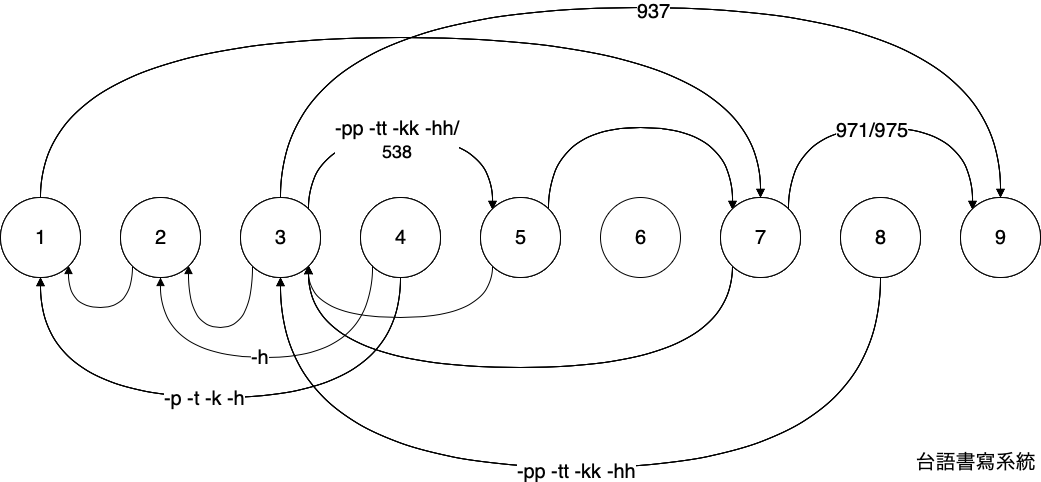
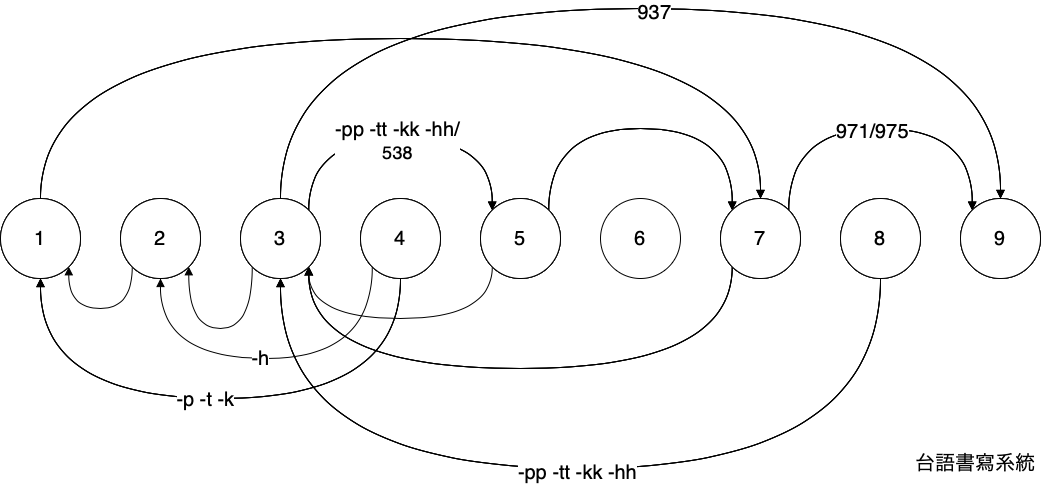
edit tone-sandhi.png. change from '-p, -t, -k' -h to '-p, -t, -k'

diff --git a/phrasal-verb.md b/phrasal-verb.md
@@ -409,7 +409,7 @@ chit-leh. chihhweh. chih-eh.
 
 | 漢字 | 書寫系統 |
 | :--- | :--- |
-| 食食 | chiahhw chiahh kih |
+| 食食 | chiahhwchiahh kih |
 | 酸酸 | sngzsng kih |
 | 縛縛 | vakkwvakk kih |
 
@@ -423,6 +423,6 @@ chit-leh. chihhweh. chih-eh.
 
 | 漢字 | 書寫系統 |
 | :--- | :--- |
-| 摃摃 | qongy qongw poah |
+| 摃摃 | qongyqongw poah |
 
 ## 連結動詞 (Linking Verb)

diff --git a/assimilation.md b/assimilation.md
@@ -115,4 +115,4 @@
 | qeydengzcia | qedengcia | 計程車 |
 | **k**ey**l**engx**ng**ay | **k**e**l**eng**ng**a | 計程仔 |
 | iongzlapp lip aih | ionglapp lip-aih | 容納 |
-| iongz**n**a**h**f li**b** aih | iongnah lib-aih ||
+| iongzna**h**f li**b** aih | iongnah lib-aih ||

diff --git a/sandhi.md b/sandhi.md
@@ -20,7 +20,7 @@
 | 漢字 | 書寫系統 | 無聲調 |
 | :--- | :--- | :--- |
 | 柑仔 | qamxmay | qamma |
-| 心愛 | simfmaiw | simmai |
+| 心愛 | simzmaiw | simmai |
 | 信任伊 | sinyjimz miz ||
 | 用啉 | iongw lim me ||
 | 向南 | hiongy lamx mez ||

diff --git a/diagram.md b/diagram.md
@@ -33,6 +33,11 @@
 
 ![tone-sandhi-of-a](./tone-sandhi-of-a.png)
 
-## 語尾變化圖
+## 後接語
 
 ![inflection](./inflection.png)
+
+## 其他
+
+* 助詞 ew 變調: -h vieny -hf
+* -pp, -tt, -kk, -hh vieny -pf, -tf, -kf, -hf

diff --git a/mimesis.md b/mimesis.md
@@ -1,10 +1,10 @@
 # 擬態語 (Mimetic Word)
 
-## 助詞 + 句動詞
+## 助詞 + 動詞
 
 | 漢字 | 書寫系統 |
 | :--- | :--- |
-| 開開 | **kuiz** kui kuih |
+| 開開 | **kuiz**kuifkuiw |
 
 ## 擬態動詞
 
